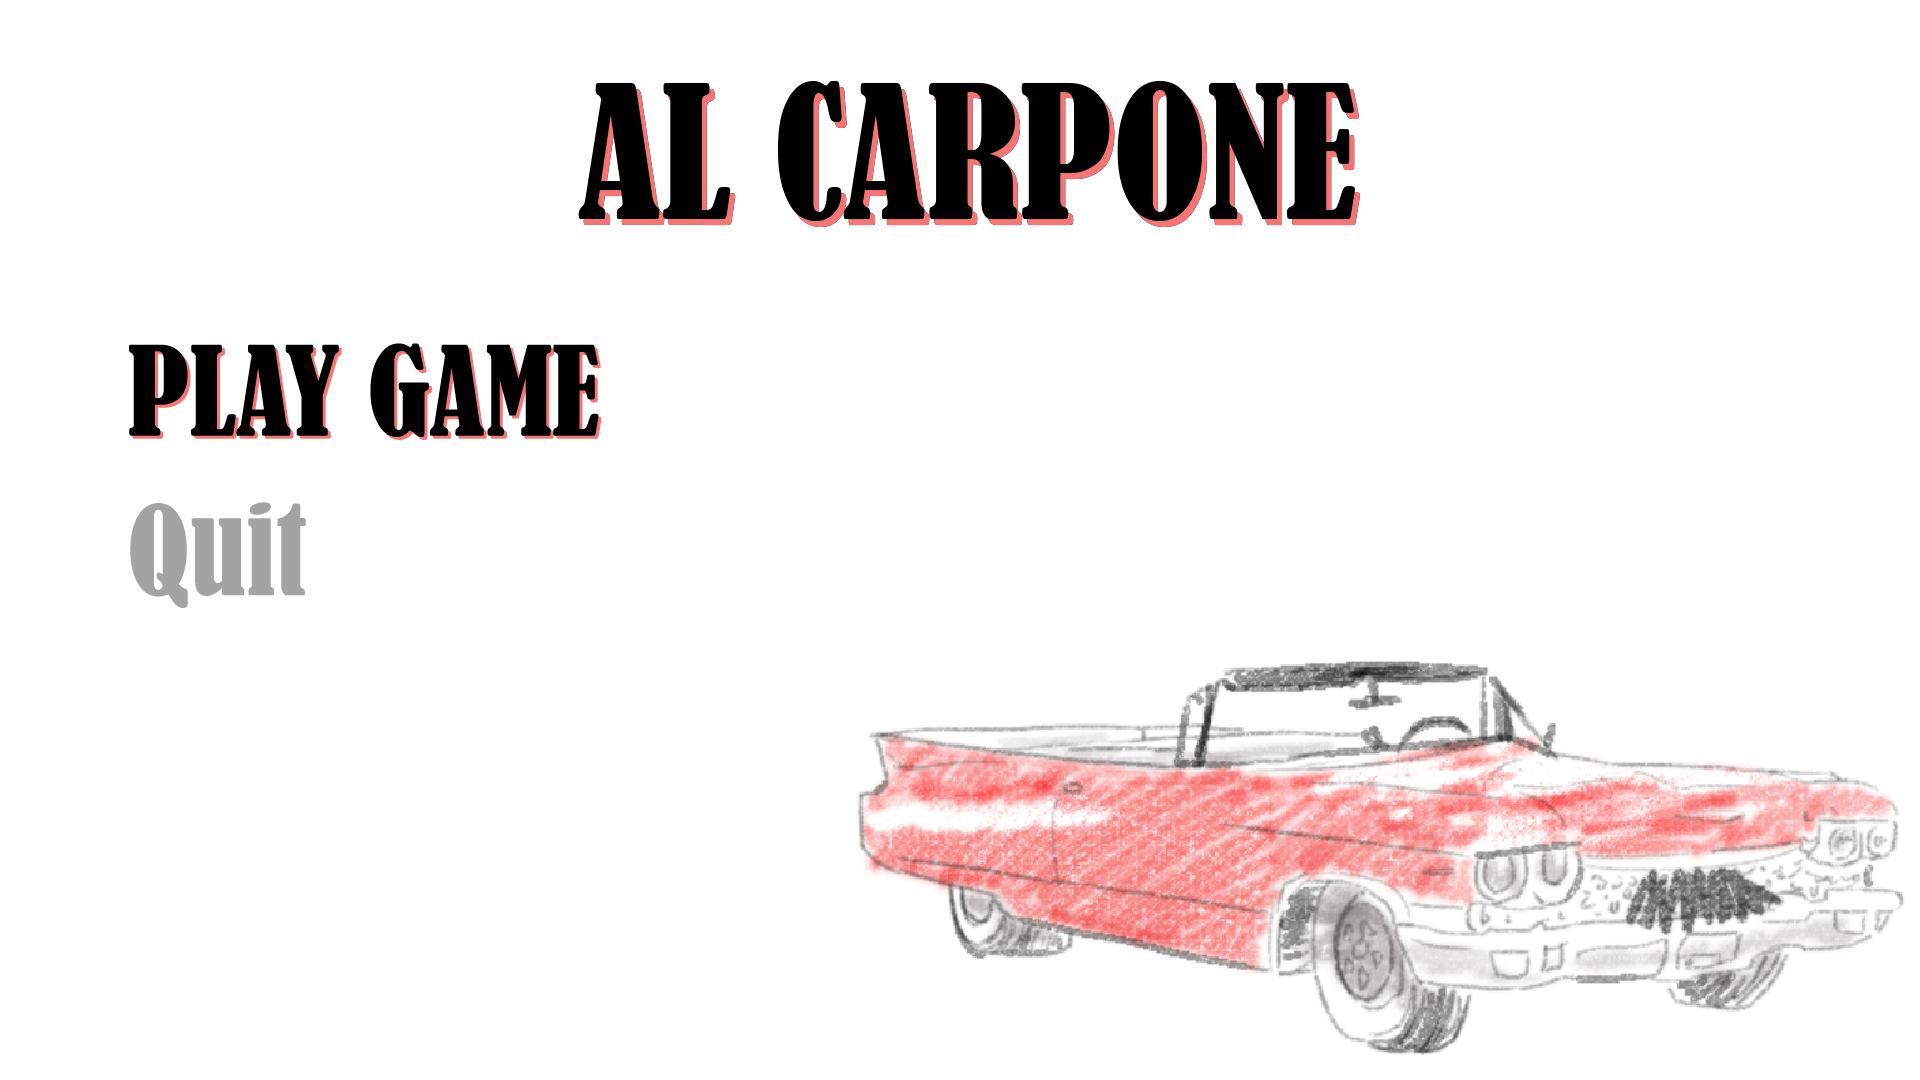
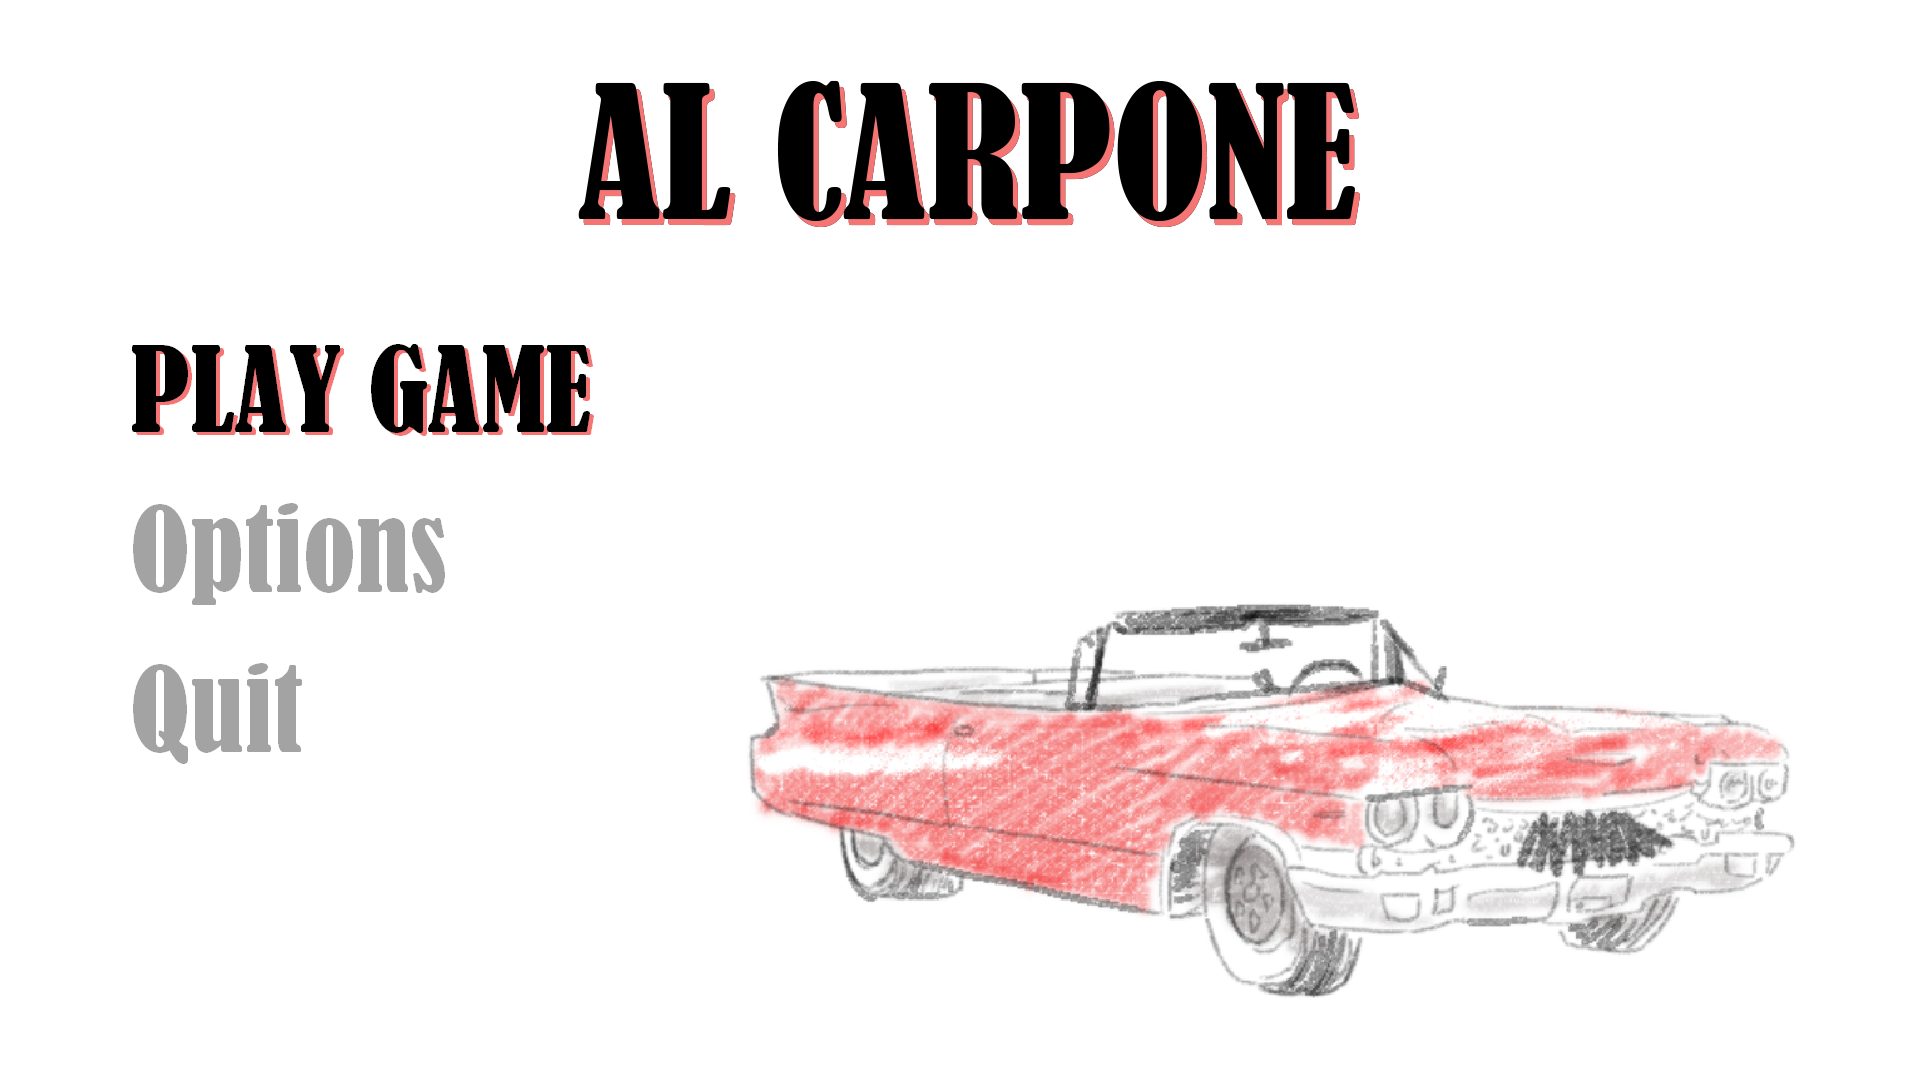
added options menu screens. No functionality yet tho

diff --git a/AL_CARPONE/MainMenu.cpp b/AL_CARPONE/MainMenu.cpp
@@ -16,8 +16,8 @@ MainMenu::MainMenu() {
 	
 	selectionScreens = {
 		Model("models/mainMenu/0_PLAYGAME.obj"),
-		Model("models/mainMenu/1_QUIT.obj"),
-		
+		//Model("models/mainMenu/1_OPTIONS.obj"),
+		Model("models/mainMenu/2_QUIT.obj")
 	};
 
 	light_positions = load_positions("models/map/light_positions.obj");
